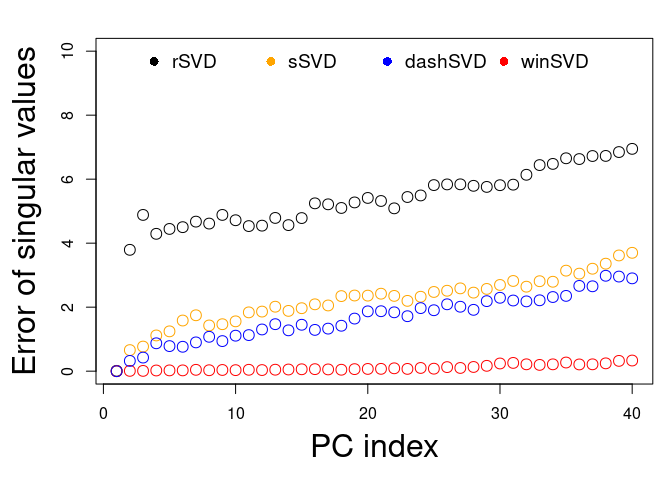
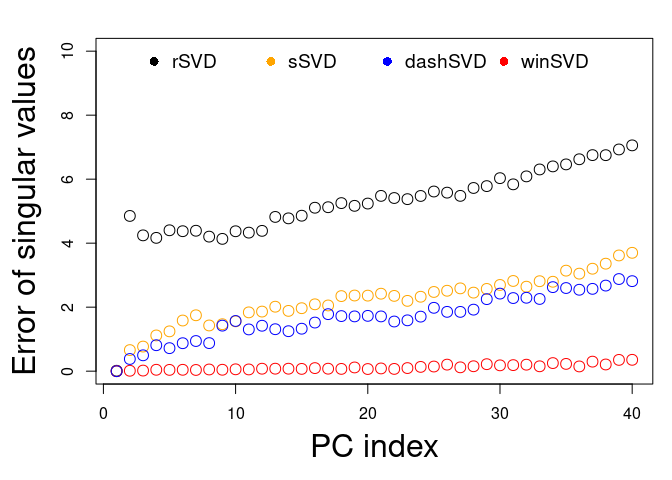
update description

Changed region(s): [[0.1875, 0.5625, 0.9688, 0.7812], [0.1875, 0.2812, 0.9688, 0.5312]]

diff --git a/README.md b/README.md
@@ -36,9 +36,9 @@ mat <- matrix(rnorm(100*5000), 5000, 100)
 res <- pcaone(mat, k = 10)
 str(res)
 #> List of 3
-#>  $ d: num [1:10] 81 80.3 79.5 79.5 79.3 ...
-#>  $ u: num [1:5000, 1:10] 0.02376 0.01619 0.00688 0.01737 0.00316 ...
-#>  $ v: num [1:100, 1:10] -0.0608 -0.0074 -0.0329 -0.0271 0.0213 ...
+#>  $ d: num [1:10] 80.4 80.1 79.9 79 78.6 ...
+#>  $ u: num [1:5000, 1:10] 0.04199 0.00165 0.00775 0.00605 0.01877 ...
+#>  $ v: num [1:100, 1:10] -0.1023 0.1136 -0.0479 0.0457 -0.0982 ...
 #>  - attr(*, "class")= chr "pcaone"
 ```
 
@@ -46,8 +46,8 @@ str(res)
 
 We define the accuracy as the error of singular values using results of
 `RSpectra::svds` as truth. For all RSVD, let’s restrict the number of
-epochs as 8, i.e. how many times the whole matrix is read through if it
-can only be hold on disk.
+epochs as 8 with only `winsvd` using 7, i.e. how many times the whole
+matrix is read through if it can only be hold on disk.
 
 ``` r
 library(RSpectra) ## svds
@@ -58,19 +58,19 @@ A <- popgen - rowMeans(popgen) ## center
 k <- 40
 system.time(s0 <- RSpectra::svds(A, k = k) )
 #>    user  system elapsed 
-#>  28.247   1.710   1.258
+#>  27.688   2.833   1.282
 system.time(s1 <- rsvd::rsvd(A, k = k, q = 4))  ## the number of epochs is two times of power iters, 4*2=8
 #>    user  system elapsed 
-#>   8.826  15.496   1.225
+#>   8.538  14.078   1.152
 system.time(s2 <- pcaone(A, k = k, method = "ssvd", p = 8))
 #>    user  system elapsed 
-#>   6.660   5.916   0.954
-system.time(s3 <- pcaone(A, k = k, method = "winsvd", p = 8))
+#>   7.932   5.863   0.738
+system.time(s3 <- pcaone(A, k = k, method = "winsvd", p = 7))
 #>    user  system elapsed 
-#>  11.112   8.740   0.956
+#>  10.221   8.921   0.937
 system.time(s4 <- pcaone(A, k = k, method = "dashsvd", p = 6)) ## the number of epochs is 2 + power iters
 #>    user  system elapsed 
-#>  10.654  12.905   1.792
+#>  11.541  15.372   1.972
 
 par(mar = c(5, 5, 2, 1))
 plot(s0$d-s1$d, ylim = c(0, 10), xlab = "PC index", ylab = "Error of singular values", cex = 1.5, cex.lab = 2)
@@ -88,13 +88,13 @@ to reach the accuracy of `winSVD`.
 ``` r
 system.time(s1 <- rsvd::rsvd(A, k = k, q = 20))  ## the number of epochs is 4*20=40
 #>    user  system elapsed 
-#>  33.213  57.589   4.874
+#>  32.619  53.136   4.231
 system.time(s2 <- pcaone(A, k = k, method = "ssvd", p = 20))
 #>    user  system elapsed 
-#>  15.453   5.560   0.881
-system.time(s4 <- pcaone(A, k = k, method = "dashsvd", p = 20))
+#>  15.607   6.231   0.918
+system.time(s4 <- pcaone(A, k = k, method = "dashsvd", p = 18))
 #>    user  system elapsed 
-#>  30.136  37.707   4.358
+#>  27.619  41.514   4.493
 
 par(mar = c(5, 5, 2, 1))
 plot(s0$d-s1$d, ylim = c(0, 2), xlab = "PC index", ylab = "Error of singular values", cex = 1.5, cex.lab = 2)
@@ -117,16 +117,16 @@ timing <- microbenchmark(
   'rSVD' = rsvd(A, k=k, q = 20),
   'pcaone.winsvd' = pcaone(A, k=k, p = 7),
   'pcaone.ssvd' = pcaone(A, k=k, p = 20, method = "ssvd"),
-  'pcaone.dashsvd' = pcaone(A, k=k, p = 20, method = "dashsvd"),
+  'pcaone.dashsvd' = pcaone(A, k=k, p = 18, method = "dashsvd"),
   times=10)
 print(timing, unit='s')
 #> Unit: seconds
 #>            expr       min        lq     mean    median       uq      max neval
-#>        RSpectra 1.2408488 1.4194163 1.766091 1.6250544 2.060196 2.908666    10
-#>            rSVD 4.1430016 4.4327371 5.105631 4.9439714 5.785335 6.443811    10
-#>   pcaone.winsvd 0.8368182 0.9249775 1.059625 0.9889866 1.076512 1.478980    10
-#>     pcaone.ssvd 0.8181878 1.0357433 1.434357 1.0795606 1.906965 2.783159    10
-#>  pcaone.dashsvd 4.7534786 5.0128576 5.295586 5.2492082 5.742555 5.798519    10
+#>        RSpectra 1.2353597 1.4116179 1.731160 1.7462612 1.980583 2.170780    10
+#>            rSVD 3.2378337 3.7664747 4.528873 4.5787277 5.091018 6.399555    10
+#>   pcaone.winsvd 0.8144586 0.8431530 1.035334 0.9515424 1.005934 2.018279    10
+#>     pcaone.ssvd 0.8590501 0.8756084 1.156631 0.9761875 1.598022 1.761097    10
+#>  pcaone.dashsvd 4.4119749 4.4745547 4.746664 4.5025322 4.739109 6.516111    10
 ```
 
 ## References
